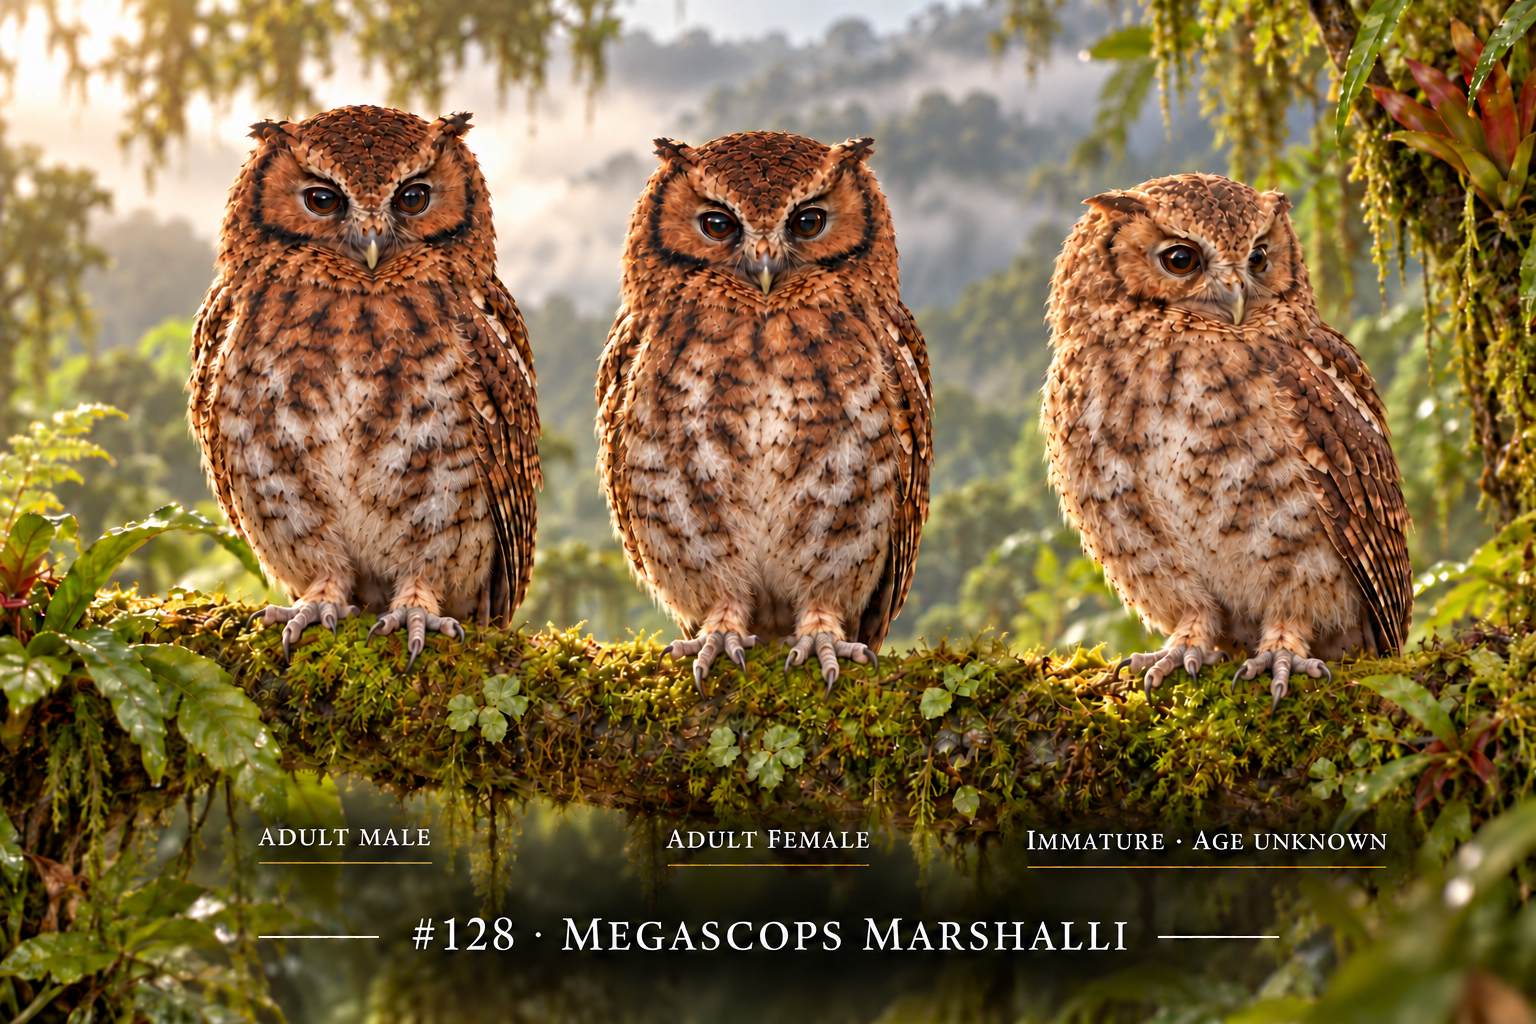
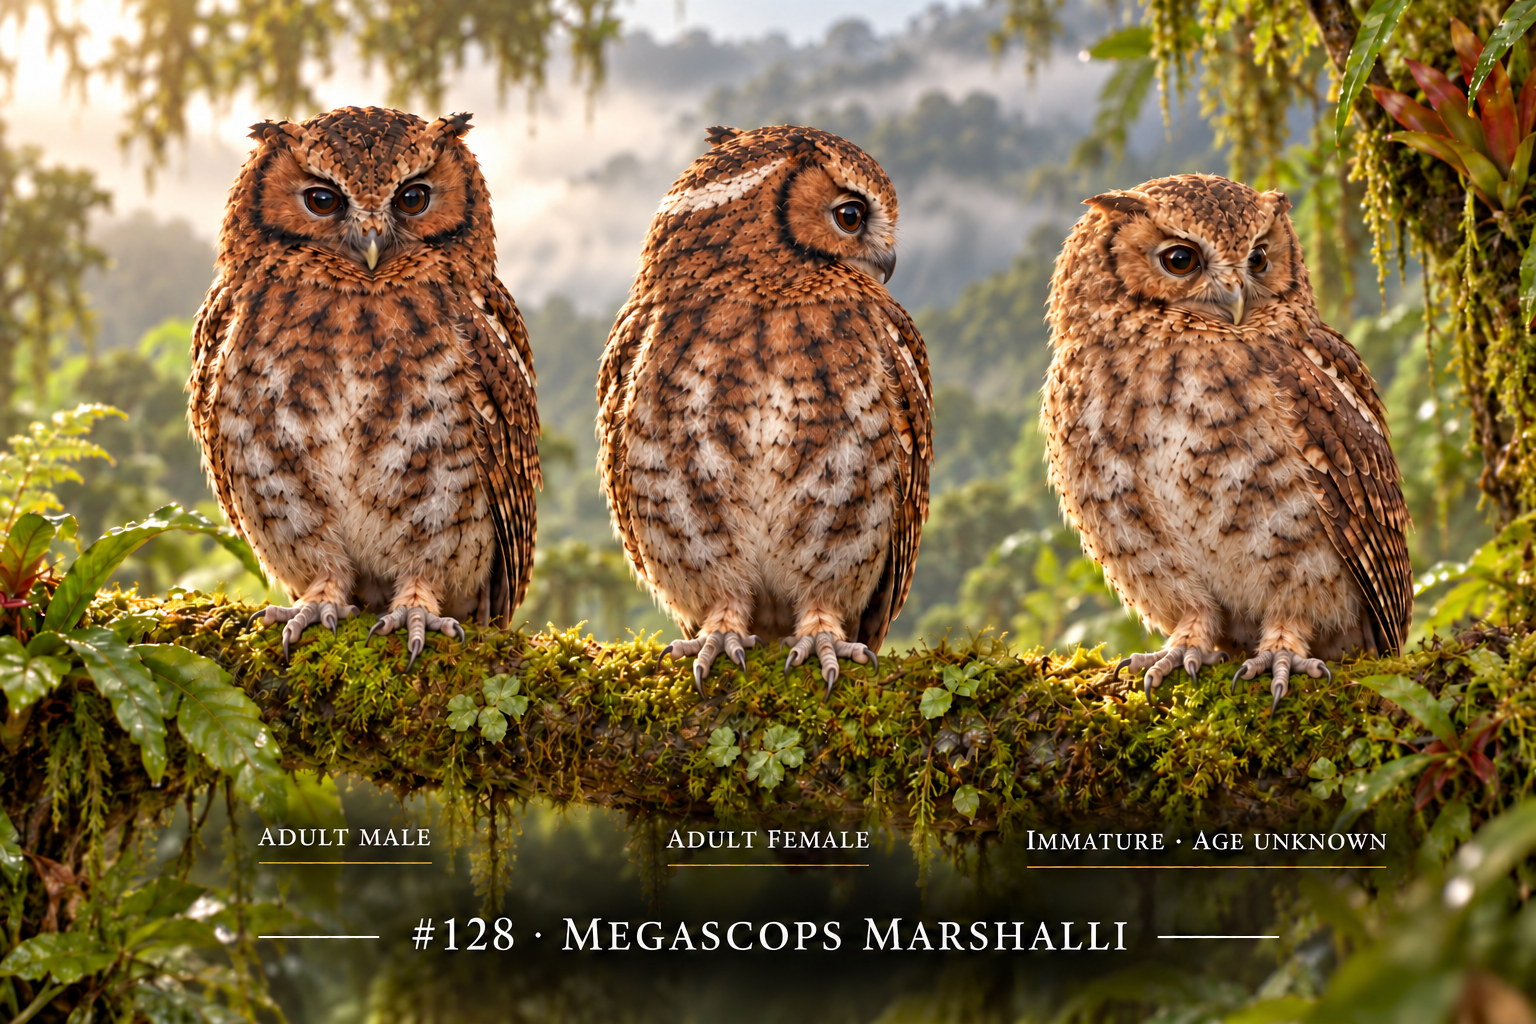
owl-pet: archive 128-megascops-marshalli-v3 reviewed original

diff --git a/owl-pet/production/runs/2026-10-20T2310+0800-cycle-3.md b/owl-pet/production/runs/2026-10-20T2310+0800-cycle-3.md
@@ -1,3 +1,7 @@
 # Batch2310 cycle3 RESEARCH_READY 2026-10-20T15:47:21.804Z
 Freshmanifest/card128v2 andactualremotePNGviewed. Existingpendinghindcrownwhiteband cannot be verified in frontalheadpose; notpaintforeheadV. Primaryauthorfulltext WeskeTerborgh1981 Auk98:1–7 https://www.researchgate.net/publication/242735911_OTUS_MARSHALLI_A_NEW_SPECIES_OF_SCREECHOWL_FROM_PERI actualpp1–3 diagnosis/holotype/variationread. WhitishbandHINDcrown, individualfeathersrufous/duskytrim, darkbrowniris/rufousblackrimface/shorttufts. AdultfemaleminorRSDuncertain(n1); noheightchange. Olderimmatureformedflightfeathersexplicitp3, severalmonthsstagep5; preservelegitimatewings notgenericdown. Exactage/feathermapunknown. Designinference: rotatefemalehead50deg toexposehindcrown, notbiologybehaviorclaim. Crowneditdifferentfromfailedbellypromptreuse. Source MARS-WESKE-1981 reused1/no newID; uploadedbooknotfreshread. Fullprompt:
 Scientific concept correction for adult FEMALE MIDDLE bird only: turn her head about 50 degrees toward viewer right (body and feet remain fixed), exposing hindcrown/back of head. Show the documented whitish CORONAL BAND on HIND CROWN, across posterior crown behind the short tufts, with narrow rufescent/dusky tipped feathers, NOT a forehead eyebrow V, NOT eye mask, NOT throat collar. Keep rufous facial disk broad black rear rim, darkbrown eye/grayyellowbill/short ear tufts. Brownblack irregular crossbars on remaining crown. Do not modify immature right or male left. Preserve all bodypatterns, feathers, legitimate older immature flightfeathers, feet branch support, labels, style. Band is plumage pigment notwhite glow.
+
+IMAGE_GENERATED / REVIEWED 2026-10-20T15:48:47.344Z
+Actualview: femalehead rotatedright exposing posteriorcrown pale band withbrown speckledtips, no foreheadV added. Exactbandextent/featherplacementnotvalidated; stylizedbroadbandneedsfinecalibration. Darkeyes/rufousblackrimface/shorttufts andolderimmatureformedwing/otherbirdsgrips/labels retainedvisually. Hypothesis angleexposure applied andinspectable, notglobalanatomyvalidation.
+Generation/editwait 57296ms. Sciencefalse. ARCHIVED pendingverification.
